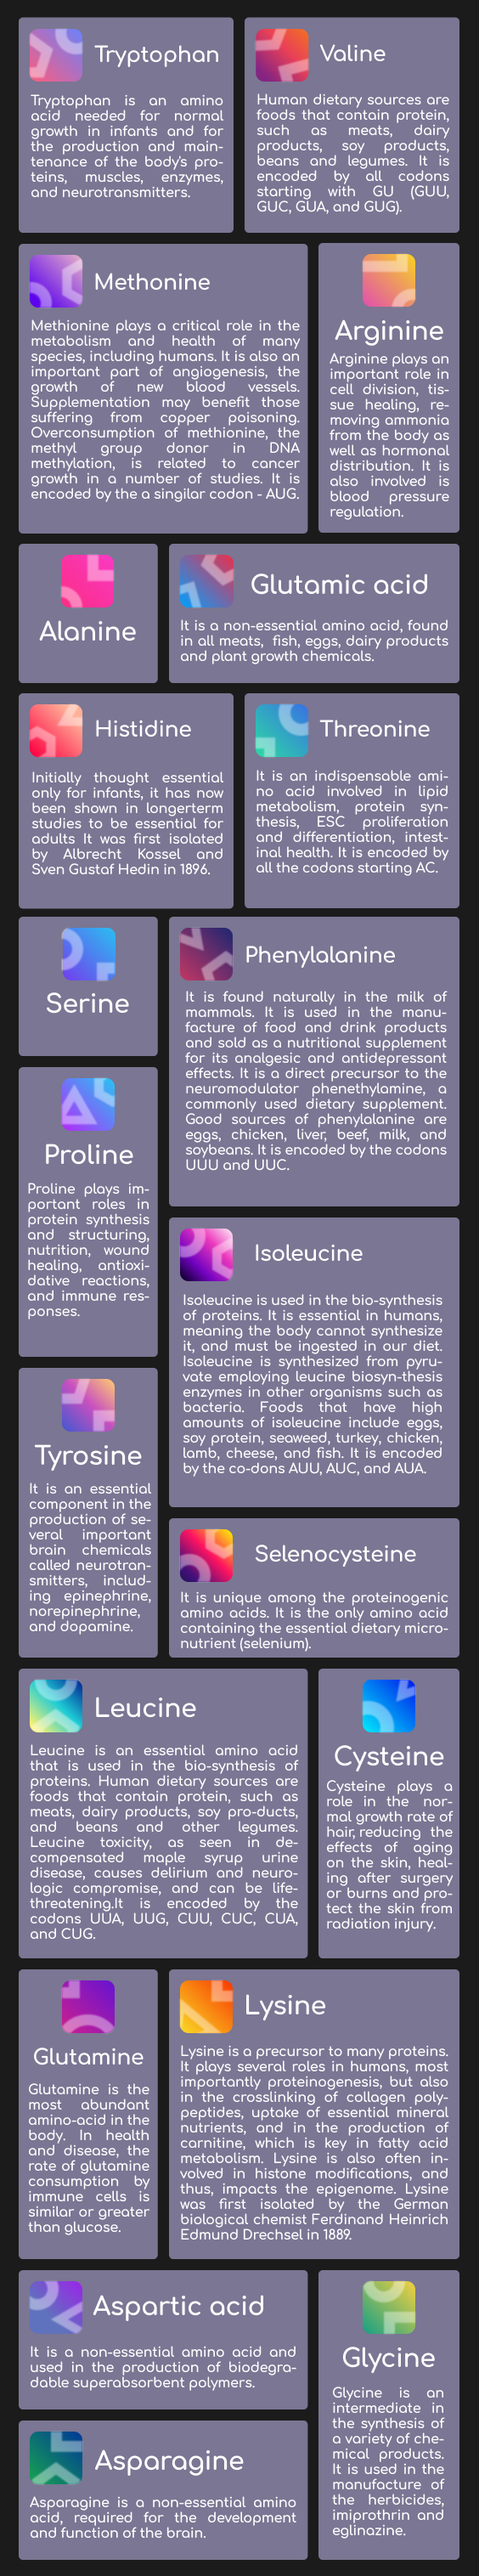
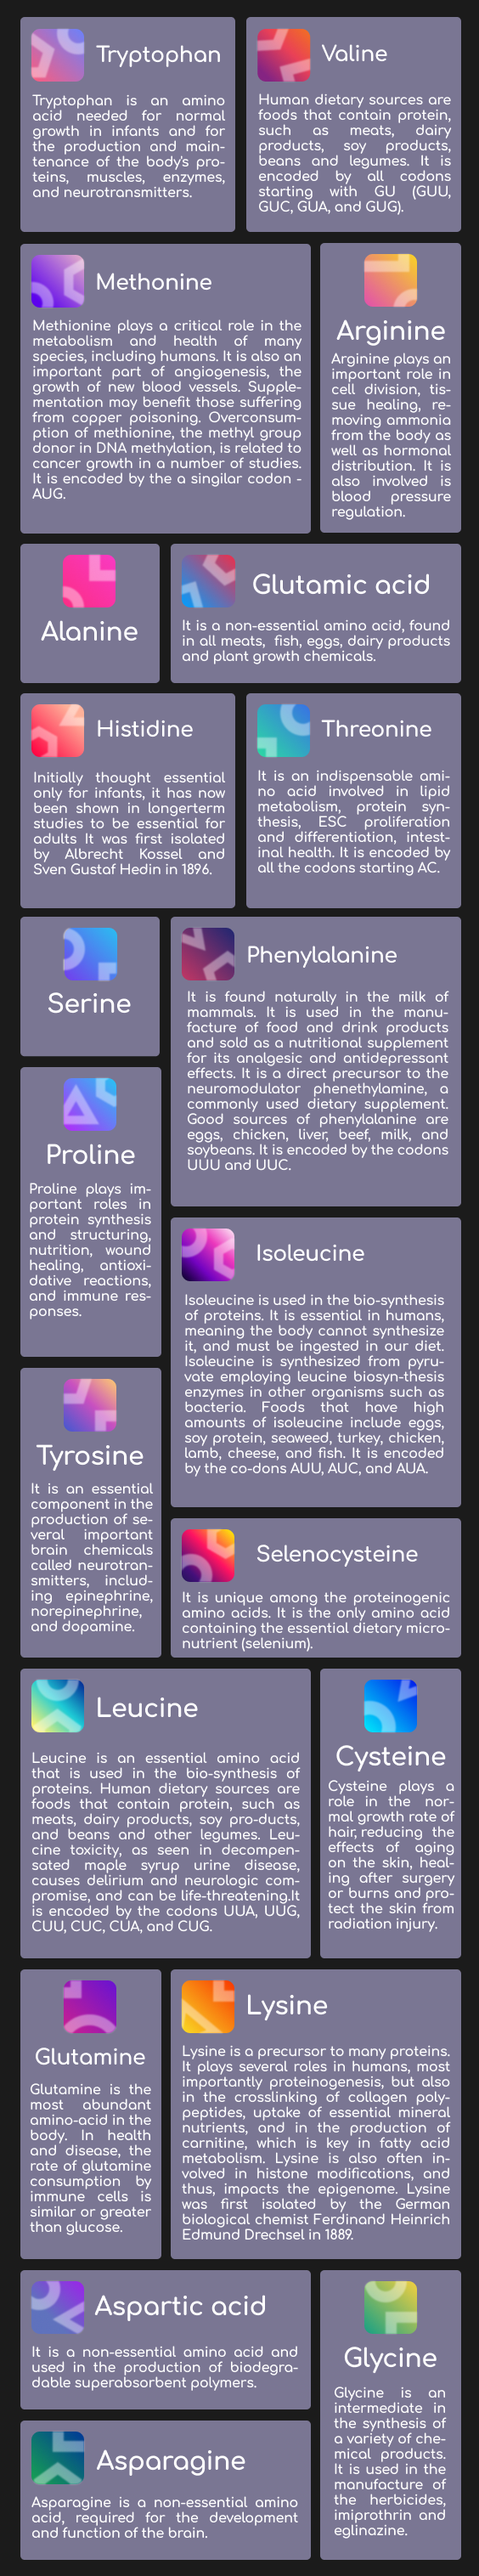
Implement amino-acid repo logic. Close #29

Changed region(s): [[0.0301, 0.0, 0.9645, 0.9921]]

diff --git a/_build/activeTextAndObjects.cpp b/_build/activeTextAndObjects.cpp
@@ -1,6 +1,111 @@
 #include <cmath>
 #include "activeTextAndObjects.h"
 
+// Barrier class methods
+// Default constructor
+Barrier::Barrier()
+{
+	_x = 0;
+	_y = 0;
+	_scrollY = 0;
+	_scrollBoundary = 0;
+}
+
+// Parameterized constructor
+Barrier::Barrier(short int x, short int y, short int boundary, Texture2D texture)
+{
+	_x = x;
+	_y = y;
+	_scrollY = y;
+	_scrollBoundary = boundary;
+	_texture = texture;
+};
+
+// Getters
+// Get barrier X coordinate
+short int Barrier::getX()
+{
+	return _x;
+}
+
+// Get barrier Y coordinate
+short int Barrier::getY()
+{
+	return _y;
+}
+
+// Get barrier scroll Y coordinate
+short int Barrier::getScrollY()
+{
+	return _scrollY;
+}
+
+// Get barrier scroll boundary
+short int Barrier::getScrollBoundary()
+{
+	return _scrollBoundary;
+}
+
+// Get barrier texture
+Texture2D Barrier::getTexture()
+{
+	return _texture;
+}
+
+//Setters
+// Set scroll Y coordinate
+void Barrier::setScrollY(short int y)
+{
+	_scrollY = y;
+}
+
+// Initialize barriers
+Barrier* Barrier::initBarriers(Texture2D textures[5])
+{
+	Barrier* barriers = new Barrier[21];
+	barriers[0] = { 37,  180, -1932, textures[1] }; // Tryptophan
+	barriers[1] = { 303, 180, -1932, textures[1] }; // Valine
+	barriers[2] = { 37,  447, -1666, textures[0] }; // Methonine
+	barriers[3] = { 390, 446, -1666, textures[4] }; // Arginine
+	barriers[4] = { 37,  800, -1312, textures[3] }; // Alanine
+	barriers[5] = { 214, 800, -1312, textures[2] }; // Glutamic acid
+	barriers[6] = { 37,  976, -1136, textures[1] }; // Histidine
+	barriers[7] = { 303, 976, -1136, textures[1] }; // Threonine
+	barriers[8] = { 37,  1239, -873, textures[3] }; // Serine
+	barriers[9] = { 214, 1239, -873, textures[0] }; // Phenylalanine
+	barriers[10] = { 37,  1416, -696, textures[4] }; // Proline
+	barriers[11] = { 214, 1593, -519, textures[0] }; // Isoleucine
+	barriers[12] = { 37,  1770, -342, textures[4] }; // Trosine
+	barriers[13] = { 214, 1947, -165, textures[2] }; // Selenocysteine
+	barriers[14] = { 37,  2124, 12,   textures[0] }; // Leucine
+	barriers[15] = { 390, 2124, 12,   textures[4] }; // Cysteine
+	barriers[16] = { 37,  2478, 366,  textures[4] }; // Glutamine
+	barriers[17] = { 214, 2478, 366,  textures[0] }; // Lysine
+	barriers[18] = { 37,  2832, 720,  textures[2] }; // Aspartic acid
+	barriers[19] = { 390, 2832, 720,  textures[4] }; // Glycine
+	barriers[20] = { 37,  3009, 897,  textures[2] }; // Asparagine
+
+	return barriers;
+}
+
+// Scoll the data barriers and check for boundaries
+void Barrier::scrollBarrier(Barrier temp)
+{
+	// Update barrier Y coordinate
+	_scrollY += int(GetMouseWheelMove() * 20);
+
+	// Check boundaries
+	if (_scrollY >= _y)
+	{
+		_scrollY = _y;
+	}
+	if (_scrollY <= _scrollBoundary)
+	{
+		_scrollY = _scrollBoundary;
+	}
+}
+
+
 // Get inventory text x position
 float GetInventoryTextX(int n)
 {
@@ -18,6 +123,8 @@ float GetInventoryTextX(int n)
 		return 1869;
 	case 10: case 12: case 13: case 14: case 15: case 16: case 17: case 18: case 19:
 		return 1863;
+	default:
+		return 0;
 	}
 }
 
@@ -31,12 +138,12 @@ void DrawInventoryItems(Font font, short int itemQuantity[6], Color color[6])
 		// Draw quantity bars
 		if (itemQuantity[i] == 0)
 		{
-			DrawRectangle(1848, float(152 + i * 150), 55, 1, color[i]);
+			DrawRectangle(1848, 152 + i * 150, 55, 1, color[i]);
 		}
 		else
 		{
-			quantityBar = itemQuantity[i] * 2.55;
-			DrawRectangle(1847, float((153 + i * 150) - quantityBar), 55, ceil(quantityBar), color[i]);
+			quantityBar = float(itemQuantity[i] * 2.55);
+			DrawRectangle(1847, (153 + i * 150) - int(quantityBar), 55, int(ceil(quantityBar)), color[i]);
 		}
 
 		// Draw quantity number

diff --git a/_build/game.cpp b/_build/game.cpp
@@ -34,14 +34,25 @@ void Game()
     short int itemQuantity[6] = { 0, 0, 0, 0, 0, 0 };
 
     // Initialize amino-acid variables
-    AminoAcid* aminoAcids = new AminoAcid[21];
+    AminoAcid* aminoAcids = nullptr;
     aminoAcids = aminoAcids->initAminoAcids();
 
     // Intialize amino-acid repository variables
     Texture2D base = LoadTexture("./../assets/UI/Amino-acid repository/base.png");
     Texture2D cover = LoadTexture("./../assets/UI/Amino-acid repository/base cover.png");
     Texture2D data = LoadTexture("./../assets/UI/Amino-acid repository/data.png");
-    float dataY = 168, scrollSpeed = 20;
+    int dataY = 160;
+
+    // Intialize data barrier variables
+    Texture2D barrierTextures[5] = {
+        LoadTexture("./../assets/UI/barriers/barrier1.png"),
+        LoadTexture("./../assets/UI/barriers/barrier2.png"),
+        LoadTexture("./../assets/UI/barriers/barrier3.png"),
+        LoadTexture("./../assets/UI/barriers/barrier4.png"),
+        LoadTexture("./../assets/UI/barriers/barrier5.png")
+    };
+    Barrier* barriers = nullptr;
+    barriers = barriers->initBarriers(barrierTextures);
 
     // Initialize chemical elements arrays
     std::vector<ChemicalElement> carbon(10, ChemicalElement("./../assets/elements/carbon.png", "carbon"));
@@ -66,12 +77,12 @@ void Game()
         playerCam.target = player->getPosition();
 
         // Scoll the amino-acid repository up and down
-        dataY += (GetMouseWheelMove() * scrollSpeed);
+        dataY += int(GetMouseWheelMove() * 20);
 
         // Scoll boundaries
-        if (dataY >= 168)
+        if (dataY >= 160)
         {
-            dataY = 168;
+            dataY = 160;
         }
         if (dataY <= -1952)
         {
@@ -96,10 +107,10 @@ void Game()
 
         // Draw the player
         DrawTexturePro(
-            player->getPlayerTexture(),
-            Rectangle{ 0, 0, float(player->getPlayerTexture().width), float(player->getPlayerTexture().height) },
-            Rectangle{ player->getPosition().x, player->getPosition().y, float(player->getPlayerTexture().width), float(player->getPlayerTexture().height) },
-            Vector2{ float(player->getPlayerTexture().width / 2), float(player->getPlayerTexture().height / 2) }, 0, RAYWHITE);
+        player->getPlayerTexture(),
+        Rectangle{ 0, 0, float(player->getPlayerTexture().width), float(player->getPlayerTexture().height) },
+        Rectangle{ player->getPosition().x, player->getPosition().y, float(player->getPlayerTexture().width), float(player->getPlayerTexture().height) },
+        Vector2{ float(player->getPlayerTexture().width / 2), float(player->getPlayerTexture().height / 2) }, 0, RAYWHITE);
 
         EndMode2D();
 
@@ -107,7 +118,15 @@ void Game()
         DrawTexture(base, -23, -7, RAYWHITE);
 
         // Draw amino-acid repository data
-        DrawTexture(data, 13, int(dataY), RAYWHITE);
+        DrawTexture(data, 13, dataY, RAYWHITE);
+
+        // Draw data barriers
+        for (int i = 0; i < 21; i++)
+        {
+            // ADD CHECK BY THE AMINOACID CLASS
+            barriers[i].scrollBarrier(barriers[i]);
+            DrawTexture(barriers[i].getTexture(), barriers[i].getX(), barriers[i].getScrollY(), RAYWHITE);
+        }
 
         // Draw amino-acid repository cover
         DrawTexture(cover, 13, 0, RAYWHITE);

diff --git a/_build/aminoAcids.cpp b/_build/aminoAcids.cpp
@@ -7,6 +7,7 @@ AminoAcid::AminoAcid(std::string name, std::vector<short int> chemicalMakeup)
 	_chemicalMakeup = chemicalMakeup;
 }
 
+// Getters
 // Get amino-acid name
 std::string AminoAcid::getName()
 {
@@ -25,25 +26,27 @@ bool AminoAcid::getIsDiscovered()
 	return _isDiscovered;
 }
 
-// Set isDiscovered
+// Setters
+// Set amino-acid discovery status
 void AminoAcid::setIsDiscovered(bool isDiscovered)
 {
 	_isDiscovered = isDiscovered;
 }
 
+// Methods
 // Initialize amino-acids
 AminoAcid* AminoAcid::initAminoAcids()
 {
 	AminoAcid* aminoAcids = new AminoAcid[21];
 	aminoAcids[0] = { "Histidine",		 {6, 9, 3, 2} };
-	aminoAcids[1] = { "Isoleucine",	 {6, 13, 1 ,2} };
+	aminoAcids[1] = { "Isoleucine",	     {6, 13, 1 ,2} };
 	aminoAcids[2] = { "Leucine",		 {6, 13, 1, 2} };
-	aminoAcids[3] = { "Lysine",		 {6, 14, 2, 2} };
-	aminoAcids[4] = { "Methionine",	 {5, 11, 1, 2, 1} };
-	aminoAcids[5] = { "Phenylalanine",  {9, 11, 1, 2} };
+	aminoAcids[3] = { "Lysine",		     {6, 14, 2, 2} };
+	aminoAcids[4] = { "Methionine",	     {5, 11, 1, 2, 1} };
+	aminoAcids[5] = { "Phenylalanine",   {9, 11, 1, 2} };
 	aminoAcids[6] = { "Threonine",		 {4, 9, 1, 3} };
-	aminoAcids[7] = { "Tryptophan",	 {11, 12, 2, 2} };
-	aminoAcids[8] = { "Valine",		 {5, 11, 1, 2} };
+	aminoAcids[7] = { "Tryptophan",	     {11, 12, 2, 2} };
+	aminoAcids[8] = { "Valine",		     {5, 11, 1, 2} };
 	aminoAcids[9] = { "Arginine",		 {6, 14, 4, 2} };
 	aminoAcids[10] = { "Cysteine",		 {3, 7, 1, 2, 1} };
 	aminoAcids[11] = { "Glutamine",		 {5, 10, 2, 3} };

diff --git a/_build/activeTextAndObjects.h b/_build/activeTextAndObjects.h
@@ -1,5 +1,6 @@
 #pragma once
 #include "raylib.h"
+#include <string>
 
 // Define custom colors
 #define inventoryBase CLITERAL(Color){ 44, 44, 44, 255 }
@@ -9,6 +10,52 @@
 #define oxygenColor CLITERAL(Color){ 36, 255, 0, 255}
 #define sulfurColor CLITERAL(Color){ 255, 215, 0, 255}
 #define seleniumColor CLITERAL(Color){ 250, 1, 255, 255}
+
+class Barrier
+{
+private:
+	short int _x;
+	short int _y;
+	short int _scrollY;
+	short int _scrollBoundary;
+	Texture2D _texture;
+
+public:
+	/// Constructors
+	// Default constructor
+	Barrier();
+
+	// Parameterized constructor
+	Barrier(short int x, short int y, short int boundary, Texture2D texture);
+
+	// Getters
+	// Get barrier X coordinate
+	short int getX();
+
+	// Get barrier Y coordinate
+	short int getY();
+
+	// Get barrier scroll Y coordinate
+	short int getScrollY();
+
+	// Get barrier scroll boundary
+	short int getScrollBoundary();
+
+	// Get barrier texture
+	Texture2D getTexture();
+
+	// Setters
+	// Set scroll Y coordinate
+	void setScrollY(short int y);
+
+	// Methods
+	// Initialize barriers
+	Barrier* initBarriers(Texture2D barriers[5]);
+
+	// Scoll the data barriers and check for boundaries
+	void scrollBarrier(Barrier barrier);
+
+};
 
 // Draw inventory items
 void DrawInventoryItems(Font comfortaaRegular, short int inventoryItems[6], Color elementaColors[6]);

diff --git a/_build/aminoAcids.h b/_build/aminoAcids.h
@@ -7,29 +7,34 @@
 class AminoAcid
 {
 private:
-
-	// Class members
 	std::string _name;
 	std::vector<short int> _chemicalMakeup;
 	bool _isDiscovered = false;
 
 public:
 
-	// Constructor
-
+	// Constructors
+	// Default constructor
 	AminoAcid() {};
 
+	// Parameterized constructor
 	AminoAcid(std::string name, std::vector<short int> chemicalMakeup);
 
 	// Getters
+	// Get amino-acid name
 	std::string getName();
 
+	// Get amino-acid chemical makeup
 	std::vector<short int> getChemicalMakeup();
 
+	// Get amino-acid discovery status
 	bool getIsDiscovered();
 
 	// Setters
+	// Set amino-acid discovery status
 	void setIsDiscovered(bool isDiscovered);
 
+	// Methods
+	// Initialize amino-acids
 	AminoAcid* initAminoAcids();
 };
